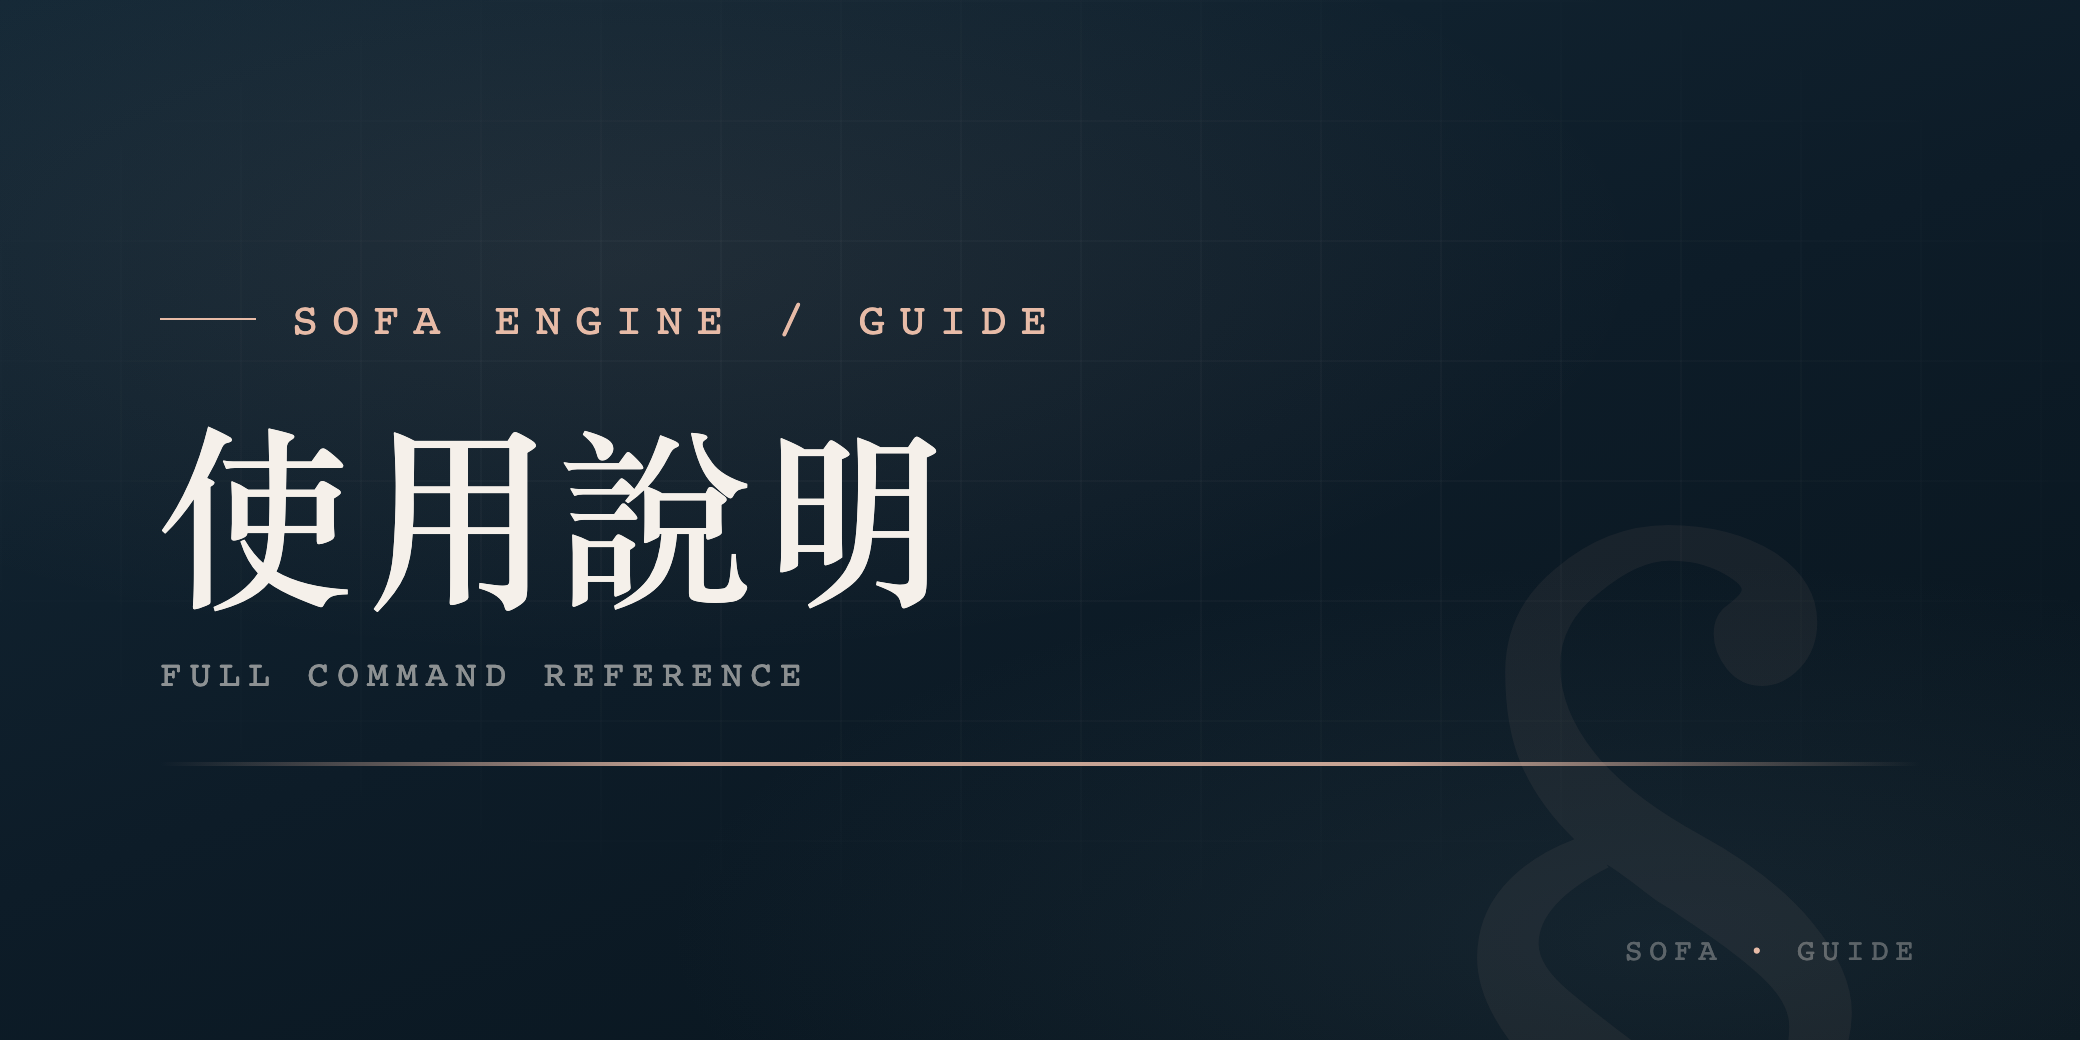
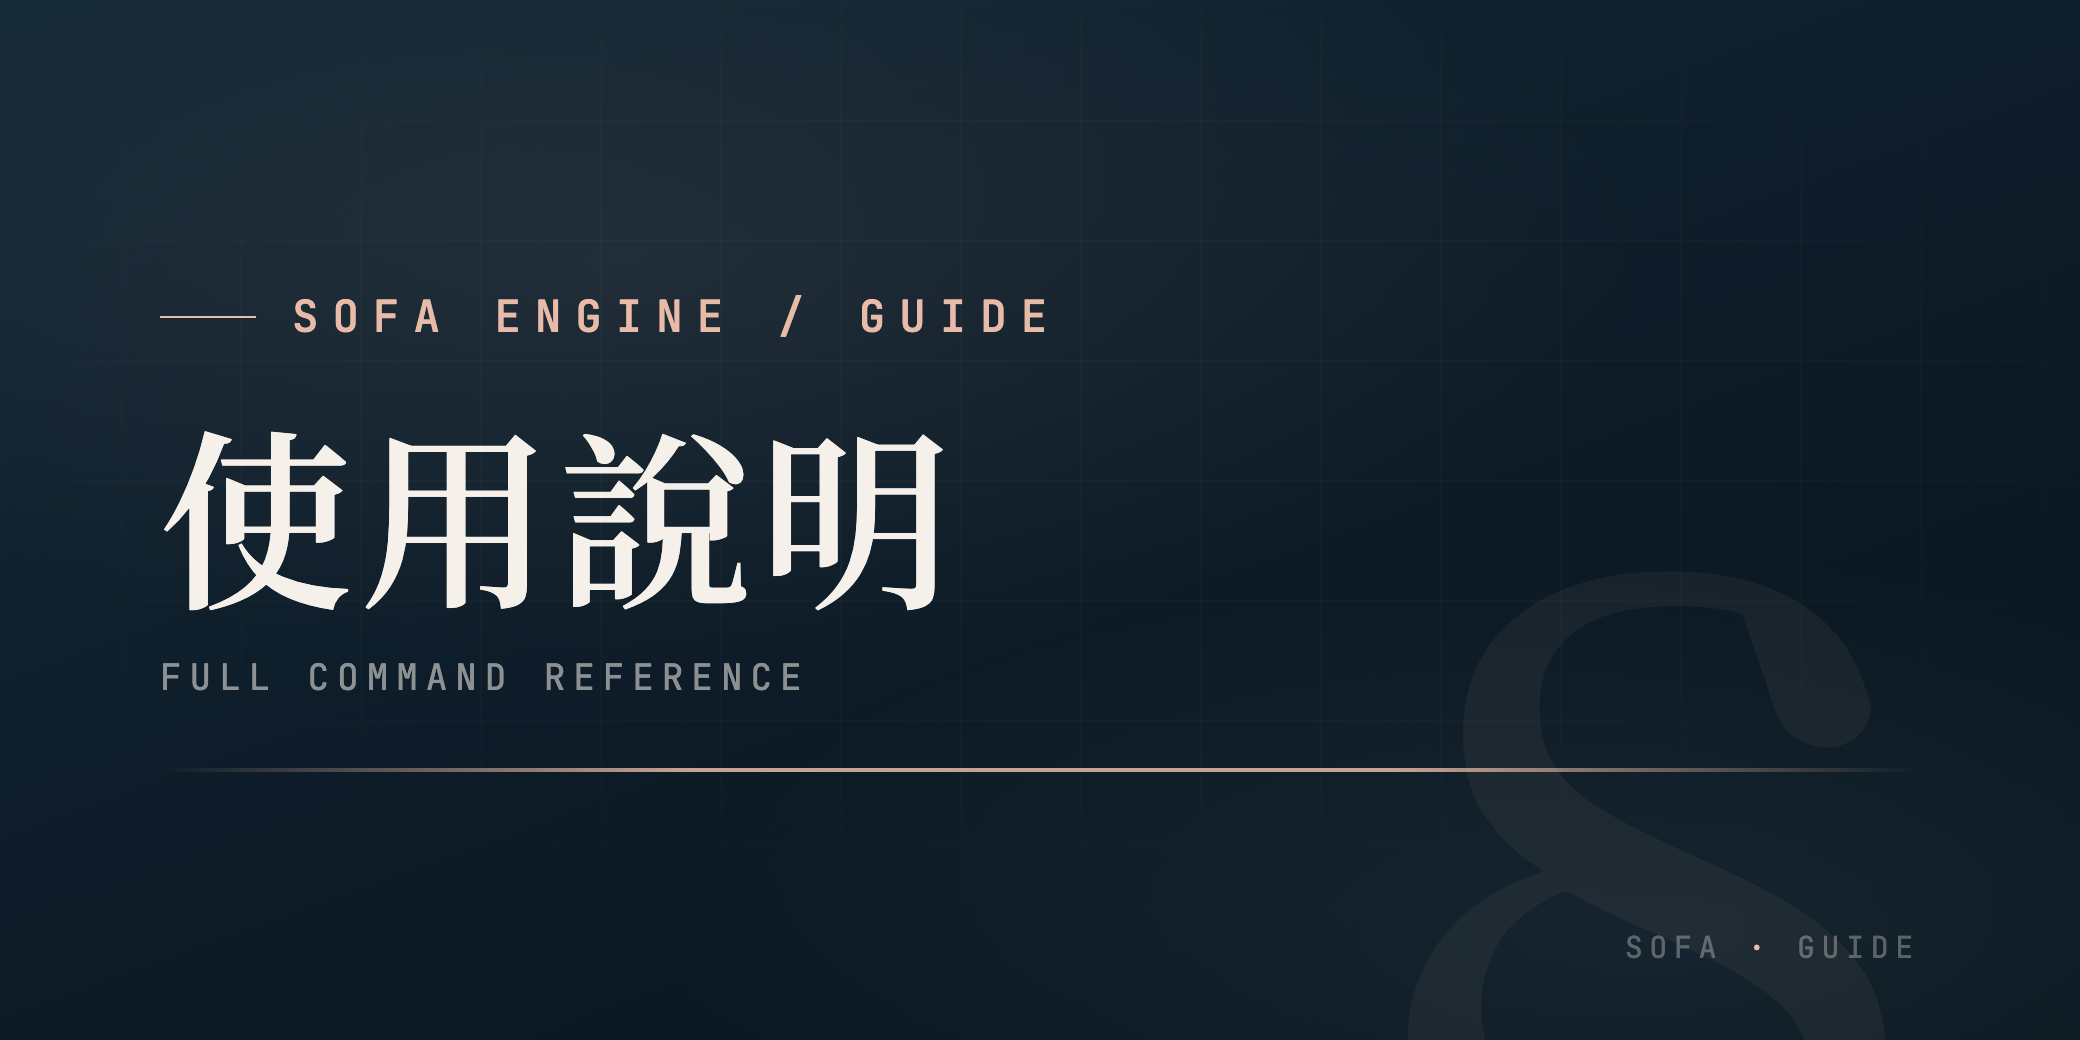
feat: ECPay 開放 — 移除付款關閉覆蓋層，恢復升級 CTA
checkout.html: 移除 #payment-closed-banner 與 #payment-closed-overlay
practice/quiz/fill: 移除「付費方案準備中」提示，CTA 恢復亮桃色「升級解鎖全部 →」
cards: 更新 buy/help/qa-pay 三張 Flex 卡片圖檔

diff --git a/checkout.html b/checkout.html
@@ -571,20 +571,6 @@
 </head>
 <body data-screen-label="08 Checkout">
 
-<!-- ── 金流暫停提示橫幅 ── -->
-<div id="payment-closed-banner" style="
-  position:fixed;top:0;left:0;right:0;z-index:9999;
-  background:#142836;
-  color:#F5F0EA;
-  text-align:center;padding:16px 24px;
-  font-family:'Noto Sans TC',sans-serif;font-size:15px;font-weight:700;
-  line-height:1.6;box-shadow:0 3px 12px rgba(0,0,0,.35);
-  border-bottom:2px solid #E7BBA7;
-">
-  🔒&ensp;付費方案尚未開放&ensp;—&ensp;<span style="color:#E7BBA7">目前全功能免費體驗中</span><br>
-  <span style="font-weight:400;font-size:13px;color:rgba(245,240,234,.75)">ECPay 金流審核通過後即開放付費，現在先免費用起來。開放時 LINE 會通知你。</span>
-</div>
-<div style="height:80px"></div><!-- push body content below banner -->
 
 <!-- mobile-only brand strip (left panel is hidden on phones) -->
 <header class="ck-mb-brand">
@@ -631,37 +617,6 @@
   <!-- ============ RIGHT — checkout form ============ -->
   <div class="ck-r" style="position:relative;">
 
-    <!-- 付費未開放覆蓋層 -->
-    <div id="payment-closed-overlay" style="
-      position:absolute;inset:0;z-index:100;
-      background:rgba(20,40,54,0.82);
-      backdrop-filter:blur(4px);-webkit-backdrop-filter:blur(4px);
-      display:flex;flex-direction:column;align-items:center;justify-content:center;
-      text-align:center;padding:40px 32px;
-      border-radius:inherit;
-    ">
-      <div style="font-size:36px;margin-bottom:16px">🔒</div>
-      <div style="font-family:'Noto Serif TC',serif;font-size:22px;font-weight:700;color:#F5F0EA;letter-spacing:.04em;margin-bottom:10px">
-        付費方案尚未開放
-      </div>
-      <div style="font-family:'Noto Sans TC',sans-serif;font-size:14px;color:rgba(245,240,234,.65);line-height:1.8;margin-bottom:32px;max-width:280px">
-        ECPay 金流審核通過後即開放。<br>
-        開放時，LINE Bot 會直接通知你。<br>
-        現在可以先免費體驗全部功能。
-      </div>
-      <a href="dashboard.html" style="
-        font-family:'Noto Sans TC',sans-serif;font-size:13px;font-weight:600;
-        letter-spacing:.1em;text-transform:uppercase;text-decoration:none;
-        color:#142836;background:#E7BBA7;
-        padding:12px 28px;border-radius:4px;
-        transition:opacity .18s;
-      " onmouseover="this.style.opacity='.82'" onmouseout="this.style.opacity='1'">
-        先免費體驗 →
-      </a>
-      <div style="margin-top:20px;font-size:12px;color:rgba(245,240,234,.35);font-family:'Noto Sans TC',sans-serif">
-        已有序號？<a href="login.html" style="color:#E7BBA7;text-decoration:none">登入 →</a>
-      </div>
-    </div>
 
     <div class="top">
       <span>CHECKOUT — 結帳</span>

diff --git a/fill.html b/fill.html
@@ -376,8 +376,8 @@ document.getElementById('navUid').textContent = isFree ? '免費版' : (localSto
 if(isFree){
   const bar=document.createElement('div');
   bar.style.cssText='background:rgba(231,187,167,.13);border-bottom:1px solid rgba(231,187,167,.3);padding:10px 40px;display:flex;align-items:center;justify-content:space-between;gap:16px;flex-wrap:wrap;';
-  bar.innerHTML='<span style="font-family:var(--mono);font-size:12px;letter-spacing:.06em;color:rgba(231,187,167,.9)">🔒 免費版 · 填空範圍有限，練習紀錄不會儲存 &nbsp;|&nbsp; <strong style="color:#E7BBA7">付費方案準備中，尚未開放</strong></span>'
-    +'<a href="checkout.html" style="font-family:var(--mono);font-size:11px;letter-spacing:.1em;color:rgba(231,187,167,.6);border:1px solid rgba(231,187,167,.4);border-radius:3px;padding:5px 14px;text-transform:uppercase;white-space:nowrap">了解方案 →</a>';
+  bar.innerHTML='<span style="font-family:var(--mono);font-size:12px;letter-spacing:.06em;color:rgba(231,187,167,.9)">🔒 免費版 · 填空範圍有限，練習紀錄不會儲存</span>'
+    +'<a href="checkout.html" style="font-family:var(--mono);font-size:11px;letter-spacing:.1em;color:#142836;background:#E7BBA7;border-radius:3px;padding:5px 14px;text-transform:uppercase;white-space:nowrap;text-decoration:none">升級解鎖全部 →</a>';
   document.querySelector('.pr-bar').before(bar);
 }
 

diff --git a/practice.html b/practice.html
@@ -393,8 +393,8 @@ document.getElementById('navUid').textContent = isFree ? '免費版' : (localSto
 if(isFree){
   const bar=document.createElement('div');
   bar.style.cssText='background:rgba(231,187,167,.13);border-bottom:1px solid rgba(231,187,167,.3);padding:10px 40px;display:flex;align-items:center;justify-content:space-between;gap:16px;flex-wrap:wrap;';
-  bar.innerHTML='<span style="font-family:var(--mono);font-size:12px;letter-spacing:.06em;color:rgba(231,187,167,.9)">🔒 免費版 · 法條內容有限制，練習紀錄不會儲存 &nbsp;|&nbsp; <strong style="color:#E7BBA7">付費方案準備中，尚未開放</strong></span>'
-    +'<a href="checkout.html" style="font-family:var(--mono);font-size:11px;letter-spacing:.1em;color:rgba(231,187,167,.6);border:1px solid rgba(231,187,167,.4);border-radius:3px;padding:5px 14px;text-transform:uppercase;white-space:nowrap">了解方案 →</a>';
+  bar.innerHTML='<span style="font-family:var(--mono);font-size:12px;letter-spacing:.06em;color:rgba(231,187,167,.9)">🔒 免費版 · 法條內容有限制，練習紀錄不會儲存</span>'
+    +'<a href="checkout.html" style="font-family:var(--mono);font-size:11px;letter-spacing:.1em;color:#142836;background:#E7BBA7;border-radius:3px;padding:5px 14px;text-transform:uppercase;white-space:nowrap;text-decoration:none">升級解鎖全部 →</a>';
   document.querySelector('.pr-bar').before(bar);
 }
 

diff --git a/quiz.html b/quiz.html
@@ -350,8 +350,8 @@ document.getElementById('navUid').textContent = isFree ? '免費版' : (localSto
 if(isFree){
   const bar=document.createElement('div');
   bar.style.cssText='background:rgba(231,187,167,.13);border-bottom:1px solid rgba(231,187,167,.3);padding:10px 40px;display:flex;align-items:center;justify-content:space-between;gap:16px;flex-wrap:wrap;';
-  bar.innerHTML='<span style="font-family:var(--mono);font-size:12px;letter-spacing:.06em;color:rgba(231,187,167,.9)">🔒 免費版 · 選擇題範圍有限，答題紀錄不會儲存 &nbsp;|&nbsp; <strong style="color:#E7BBA7">付費方案準備中，尚未開放</strong></span>'
-    +'<a href="checkout.html" style="font-family:var(--mono);font-size:11px;letter-spacing:.1em;color:rgba(231,187,167,.6);border:1px solid rgba(231,187,167,.4);border-radius:3px;padding:5px 14px;text-transform:uppercase;white-space:nowrap">了解方案 →</a>';
+  bar.innerHTML='<span style="font-family:var(--mono);font-size:12px;letter-spacing:.06em;color:rgba(231,187,167,.9)">🔒 免費版 · 選擇題範圍有限，答題紀錄不會儲存</span>'
+    +'<a href="checkout.html" style="font-family:var(--mono);font-size:11px;letter-spacing:.1em;color:#142836;background:#E7BBA7;border-radius:3px;padding:5px 14px;text-transform:uppercase;white-space:nowrap;text-decoration:none">升級解鎖全部 →</a>';
   document.querySelector('.pr-bar').before(bar);
 }
 